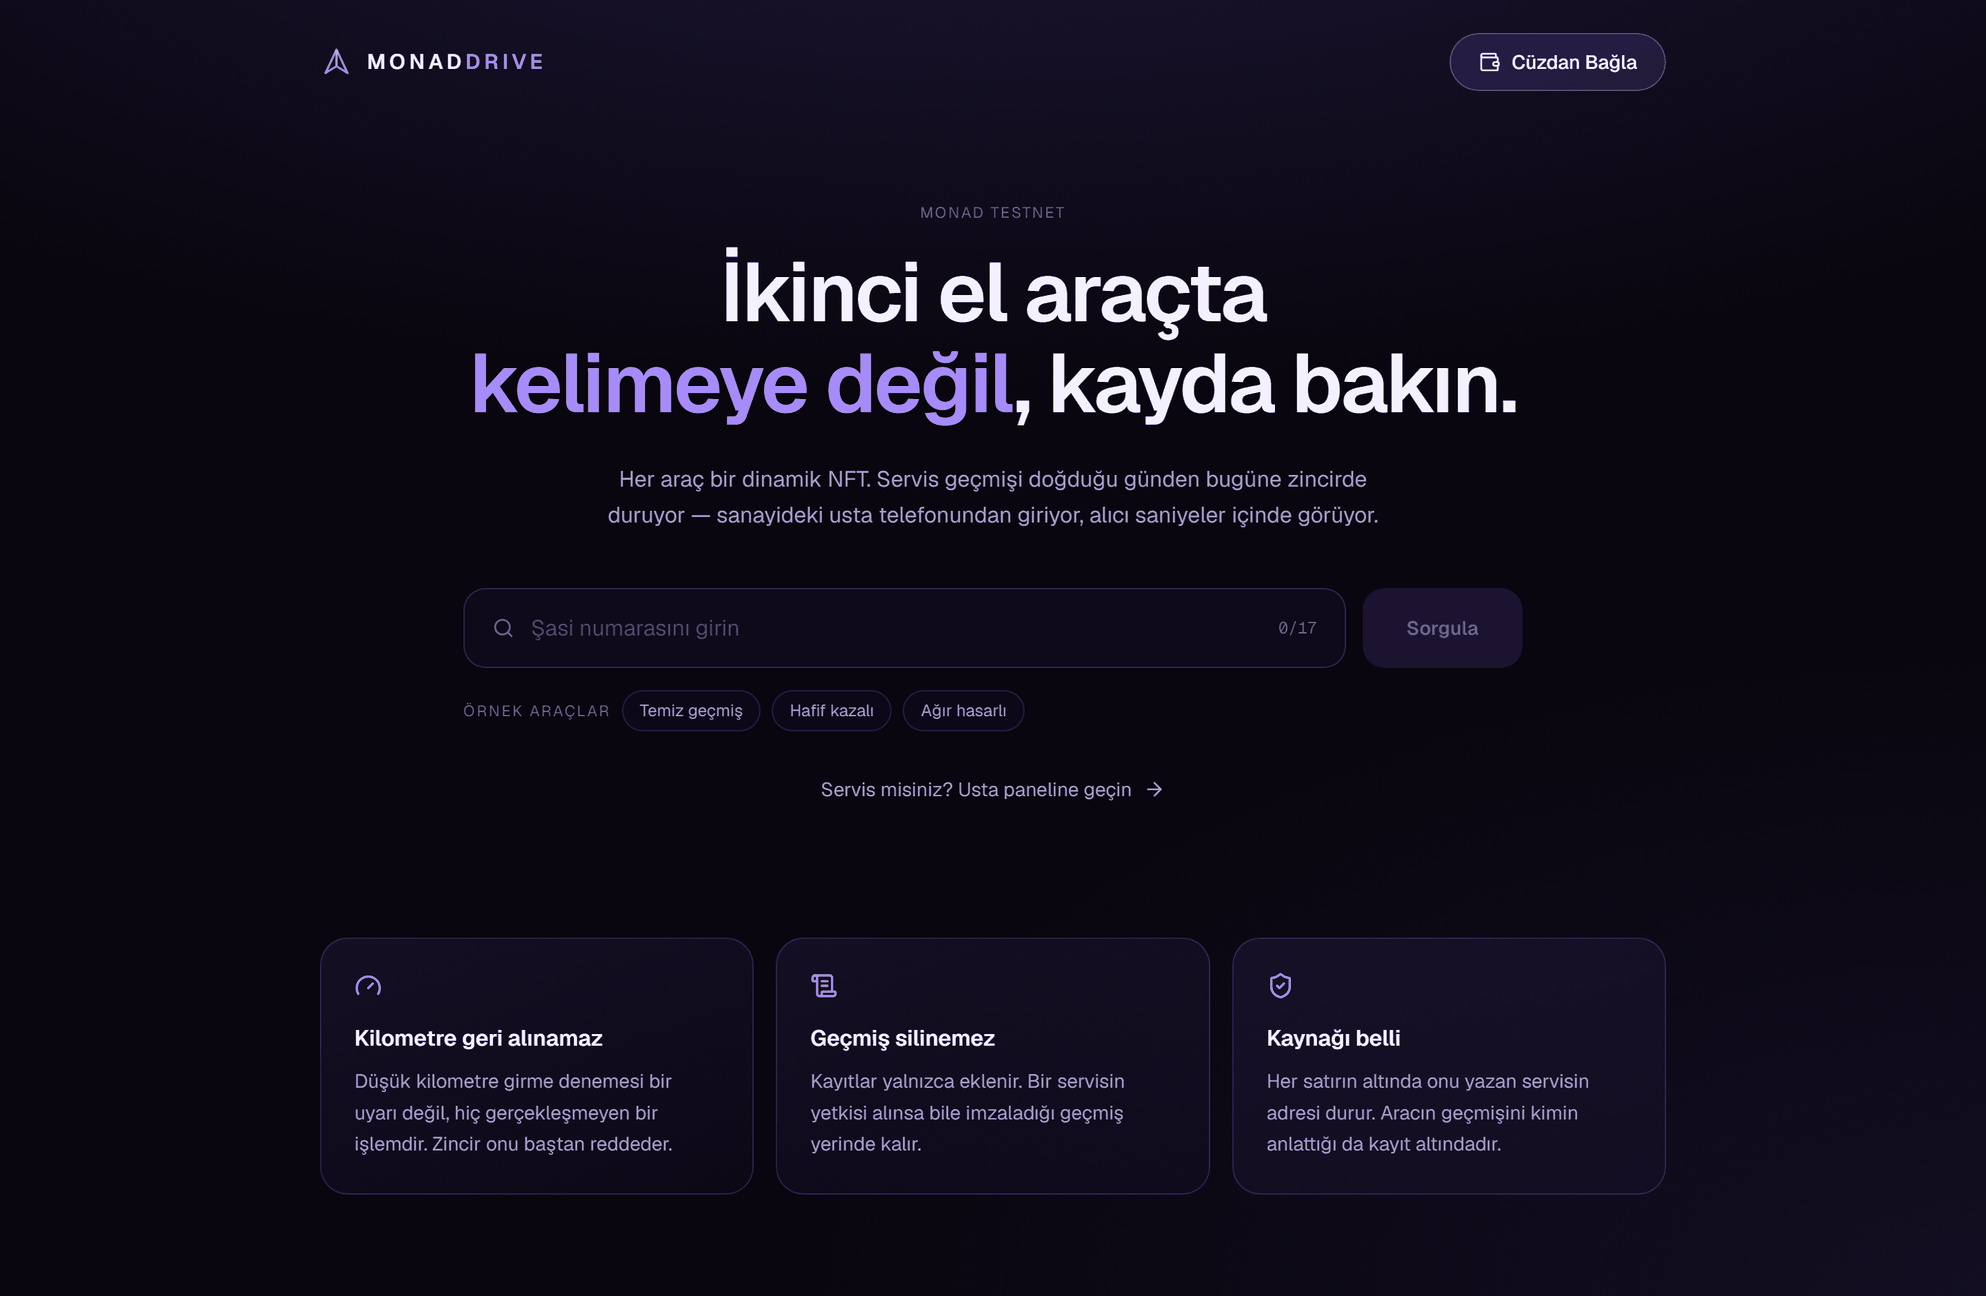
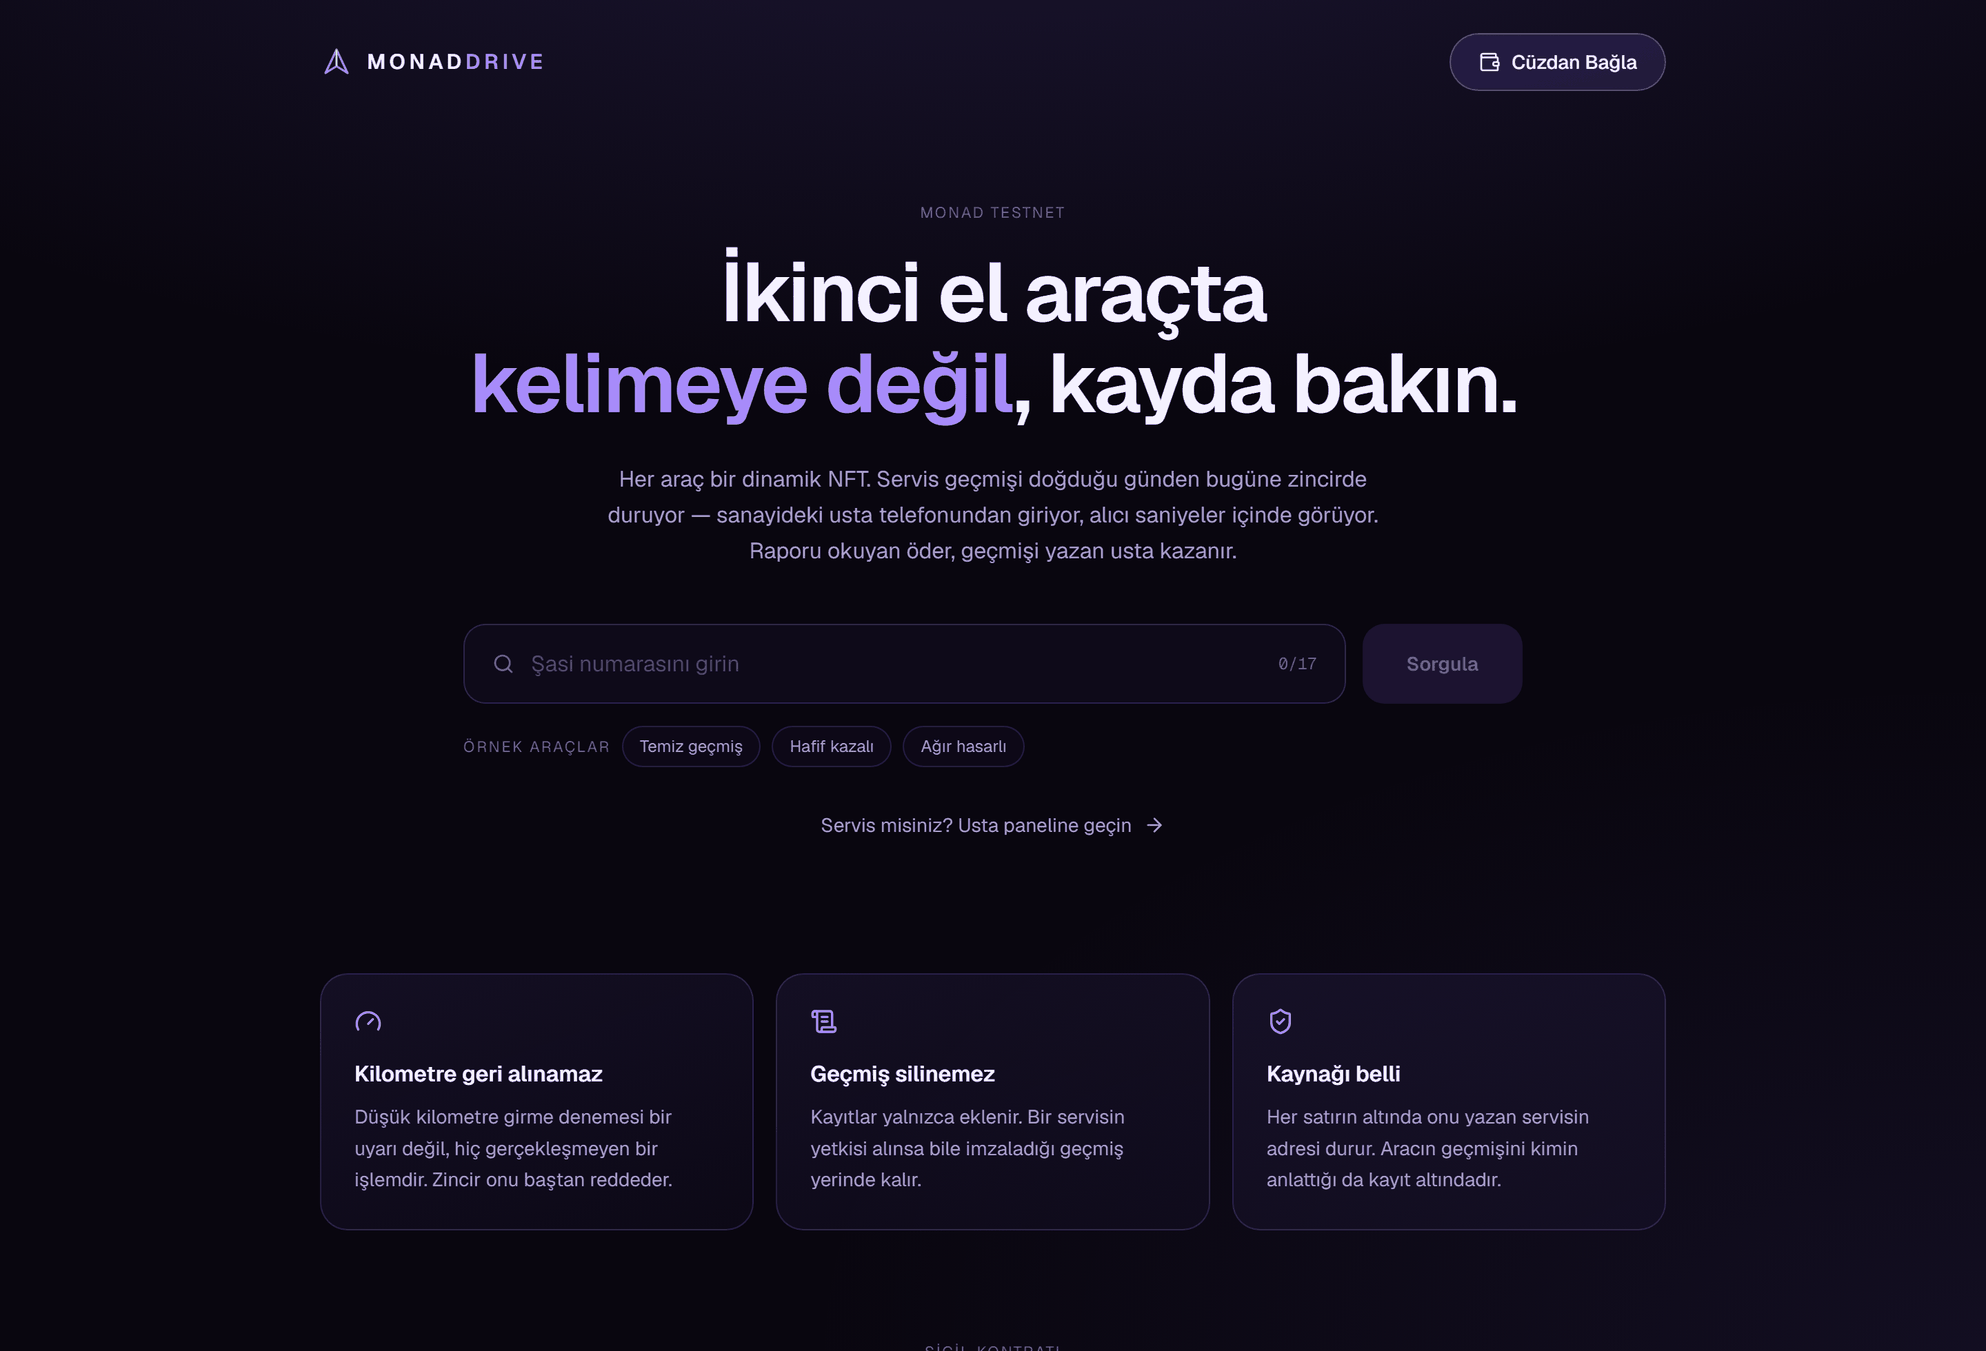
Ödeme duvarından sonra yanlış kalan ne varsa düzelt
README mimari şeması ve tasarım kararları hâlâ "alıcı paneli cüzdan istemiyor"
diyordu; ödeme duvarıyla birlikte bu doğru olmaktan çıktı. Şema artık önizleme
ile tam raporu ayrı gösteriyor, karar da yeniden yazıldı: önizleme cüzdan
istemiyor, rapor istiyor.

Giriş sayfası ürünün bir ayağını hiç anlatmıyordu. Gelir döngüsü artık orada da
var — raporu okuyan öder, geçmişi yazan usta kazanır.

Ölü kod: loadVehicle ve VehicleDossier ödeme duvarından sonra kimse tarafından
çağrılmıyordu, üstelik üstünde "tooling ve testler kullanır" yazıyordu ve öyle
bir kullanan yoktu. Altmış dört satır gitti. todayServiceDay ve TONE_BORDER hiç
kullanılmamıştı. registryAbi ile publicClient'ın export'u kaldırıldı; ikisini de
yalnızca kendi modülleri kullanıyor.

deploy script'i REPORT_PRICE ve PLATFORM_SHARE_BPS okuyor ama .env.example
bunlardan bahsetmiyordu.

Giriş ekranı görüntüsü iki kontrat öncesinin adresini gösteriyordu, yenilendi.

Kontrat kaynağına bilerek dokunulmadı: bir yorum değişse bile Sourcify'daki
doğrulanmış kaynak repodakiyle eşleşmez ve README'nin "kaynağı okuyup
iddialarımı kontrol edin" daveti anlamını yitirirdi.

diff --git a/web/src/lib/server.ts b/web/src/lib/server.ts
@@ -7,7 +7,6 @@ import {
   normalizeVin,
   registry,
   vinToTokenId,
-  type VehicleRecord,
   type VehicleSummary,
 } from "./registry";
 
@@ -16,7 +15,7 @@ import {
  * lot has no wallet and no reason to install one - asking them to connect before
  * they can see a history would defeat the point of a public registry.
  */
-export const publicClient = createPublicClient({
+const publicClient = createPublicClient({
   chain: monadTestnet,
   // The public RPC allows 15 requests a second, and a vehicle page makes a read
   // per garage on top of the summary, records and token image. Multicall folds
@@ -88,70 +87,6 @@ export async function loadVehiclePreview(rawVin: string): Promise<VehiclePreview
     // The split always ends with the platform, so the rest are garages.
     garageCount: Math.max(split[0].length - 1, 0),
     garageShareBps: 10_000 - Number(platformShareBps),
-  };
-}
-
-export type VehicleDossier = {
-  vin: string;
-  tokenId: bigint;
-  summary: VehicleSummary;
-  records: VehicleRecord[];
-  garages: Map<string, Garage>;
-  image: string | null;
-};
-
-/** The full dossier. Used by tooling and tests, not by the public page. */
-export async function loadVehicle(rawVin: string): Promise<VehicleDossier | null> {
-  const vin = normalizeVin(rawVin);
-  if (vin.length !== 17) return null;
-
-  const tokenId = vinToTokenId(vin);
-
-  const [summary, records] = await Promise.all([
-    publicClient.readContract({
-      ...registry,
-      functionName: "getVehicleSummary",
-      args: [tokenId],
-    }) as Promise<VehicleSummary>,
-    publicClient.readContract({
-      ...registry,
-      functionName: "getRecords",
-      args: [tokenId],
-    }) as Promise<readonly VehicleRecord[]>,
-  ]);
-
-  if (!summary.registered) return null;
-
-  const reporters = [...new Set(records.map((record) => record.reporter))];
-
-  const [garageList, image] = await Promise.all([
-    Promise.all(
-      reporters.map(async (address) => {
-        const provider = (await publicClient.readContract({
-          ...registry,
-          functionName: "getServiceProvider",
-          args: [address],
-        })) as { name: string; recordCount: number; active: boolean };
-
-        return {
-          address,
-          name: provider.name || "Bilinmeyen servis",
-          recordCount: Number(provider.recordCount),
-          active: provider.active,
-        } satisfies Garage;
-      }),
-    ),
-    loadTokenImage(tokenId),
-  ]);
-
-  return {
-    vin,
-    tokenId,
-    summary,
-    // Newest first: a buyer reads the recent past before the distant one.
-    records: [...records].reverse(),
-    garages: new Map(garageList.map((garage) => [garage.address.toLowerCase(), garage])),
-    image,
   };
 }
 

diff --git a/web/src/lib/registry.ts b/web/src/lib/registry.ts
@@ -3,7 +3,7 @@ import { keccak256, toBytes, type Abi } from "viem";
 import abi from "./contract/abi.json";
 import deployment from "./contract/deployment.json";
 
-export const registryAbi = abi as Abi;
+const registryAbi = abi as Abi;
 export const registryAddress = deployment.address as `0x${string}`;
 
 export const registry = {
@@ -82,10 +82,6 @@ export function dateToServiceDay(date: Date) {
   return Math.floor(Date.UTC(date.getFullYear(), date.getMonth(), date.getDate()) / (SECONDS_PER_DAY * 1000));
 }
 
-export function todayServiceDay() {
-  return dateToServiceDay(new Date());
-}
-
 /** Green above 80, amber to 50, red below. Matches the on-chain SVG. */
 export function scoreTone(score: number): RecordTone {
   if (score >= 80) return "good";
@@ -98,11 +94,4 @@ export const TONE_TEXT: Record<RecordTone, string> = {
   warn: "text-amber",
   bad: "text-danger",
   neutral: "text-violet-bright",
-};
-
-export const TONE_BORDER: Record<RecordTone, string> = {
-  good: "border-neon/40",
-  warn: "border-amber/40",
-  bad: "border-danger/40",
-  neutral: "border-violet/40",
 };

diff --git a/web/src/app/page.tsx b/web/src/app/page.tsx
@@ -44,7 +44,7 @@ export default function HomePage() {
         <p className="mx-auto mt-6 max-w-xl text-base leading-relaxed text-muted">
           Her araç bir dinamik NFT. Servis geçmişi doğduğu günden bugüne zincirde
           duruyor — sanayideki usta telefonundan giriyor, alıcı saniyeler içinde
-          görüyor.
+          görüyor. Raporu okuyan öder, geçmişi yazan usta kazanır.
         </p>
 
         <div className="mt-10">

diff --git a/README.md b/README.md
@@ -114,23 +114,27 @@ içinse cüzdanınızın yetkili servis olarak onaylanmış olması gerekiyor (a
 ## Mimari
 
 ```
-┌────────────────────────┐        ┌──────────────────────────┐
-│  Usta paneli (mobil)   │        │ Alıcı paneli (masaüstü)  │
-│  /report               │        │ /vehicle/[vin]           │
-│  wagmi · cüzdan gerekli│        │ sunucuda okuma · cüzdansız│
-└───────────┬────────────┘        └────────────┬─────────────┘
-            │ addRecordByVin()                 │ multicall3 ile
-            │ (imzalı işlem)                   │ tek eth_call
-            │                                  │
-      ┌─────▼──────────────────────────────────▼─────┐
-      │        VehicleRegistry.sol                   │
-      │   ERC-721 · Record[] · skor · servis yetkisi │
-      │   tokenId = keccak256(şasi no)               │
-      └──────────────────────┬───────────────────────┘
-                             │ ipfsCid
-                     ┌───────▼────────┐
-                     │  IPFS (Pinata) │  fotoğraf ve fatura
-                     └────────────────┘
+┌────────────────────────┐   ┌──────────────────────────────────────┐
+│  Usta paneli (mobil)   │   │      Alıcı paneli (masaüstü)         │
+│  /report               │   │      /vehicle/[vin]                  │
+│  wagmi · cüzdan gerekli│   ├──────────────────┬───────────────────┤
+│                        │   │ Önizleme         │ Tam rapor         │
+│                        │   │ sunucuda okunur  │ ödeme sonrası     │
+│                        │   │ cüzdansız        │ tarayıcıda okunur │
+└───────────┬────────────┘   └────────┬─────────┴─────────┬─────────┘
+            │ addRecordByVin()        │ getVehicleSummary │ purchaseReport()
+            │ withdrawEarnings()      │ reportSplit       │ getRecords()
+            │                         │ (multicall3)      │ erişim varsa
+      ┌─────▼─────────────────────────▼───────────────────▼─────┐
+      │               VehicleRegistry.sol                       │
+      │  ERC-721 · Record[] · skor · servis yetkisi             │
+      │  erişim hakkı · gelir bölüşümü                          │
+      │  tokenId = keccak256(şasi no)                           │
+      └──────────────────────────┬──────────────────────────────┘
+                                 │ ipfsCid
+                         ┌───────▼────────┐
+                         │  IPFS (Pinata) │  fotoğraf ve fatura
+                         └────────────────┘
 ```
 
 **Neden `tokenId = keccak256(şasi no)`:** Alıcı, zincir dışı hiçbir dizine
@@ -198,9 +202,15 @@ hassasiyet bu kadar ve struct'ın tek storage slotuna sığmasını sağlayan da
 recordedAt(5) + serviceDay(2) + mileage(4) + recordType(1) + reporter(20) = 32 bayt
 ```
 
-**Alıcı paneli cüzdan istemiyor.** Galeride araca bakan alıcının cüzdanı yok ve
-kurmak için sebebi de yok. Okumalar sunucuda yapılıyor; sayfa paylaşılabilir bir
-link.
+**Önizleme cüzdan istemiyor, rapor istiyor.** Galeride araca bakan alıcının
+cüzdanı yok; ona önce bir şey göstermek gerekiyor. Önizleme sunucuda okunuyor ve
+paylaşılabilir bir link olarak kalıyor. Cüzdan ve ödeme ancak raporu açmak
+istendiğinde devreye giriyor.
+
+**Kilitli yarı sunucuda hiç yüklenmiyor.** Kayıtlar, zincir o cüzdanın erişimi
+olduğunu söyledikten sonra tarayıcıda okunuyor. Sunucuda çekip CSS ile gizlemek,
+tüm raporu sayfa kaynağına koymak olurdu — kapı ancak görüntü kaynağında da
+kapalıysa kapıdır.
 
 **Usta paneli kilometre geri alımını formda yakalıyor.** Kontrat zaten
 reddedecek; panel aynı "hayır"a imza atmadan önce varıyor. Şasi numarası
